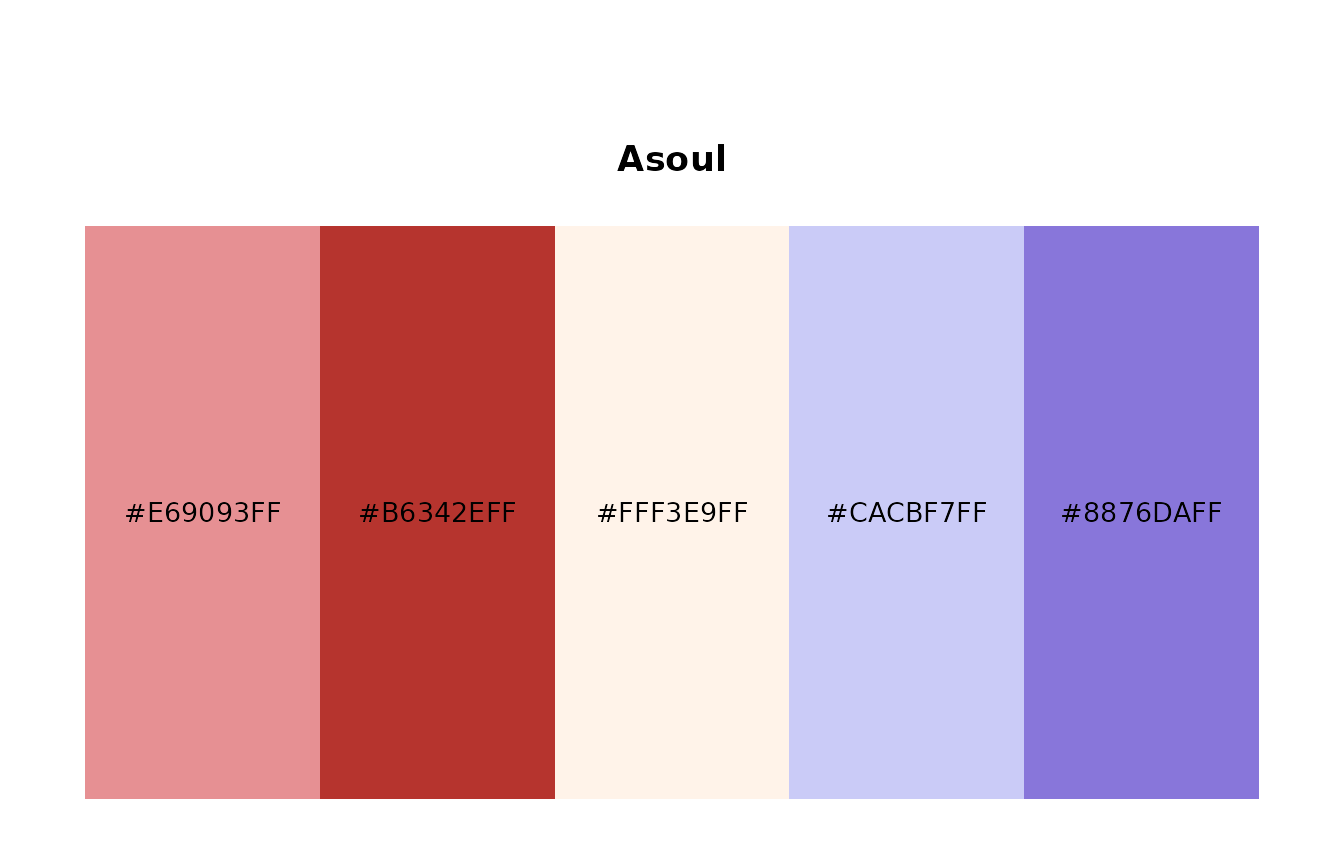
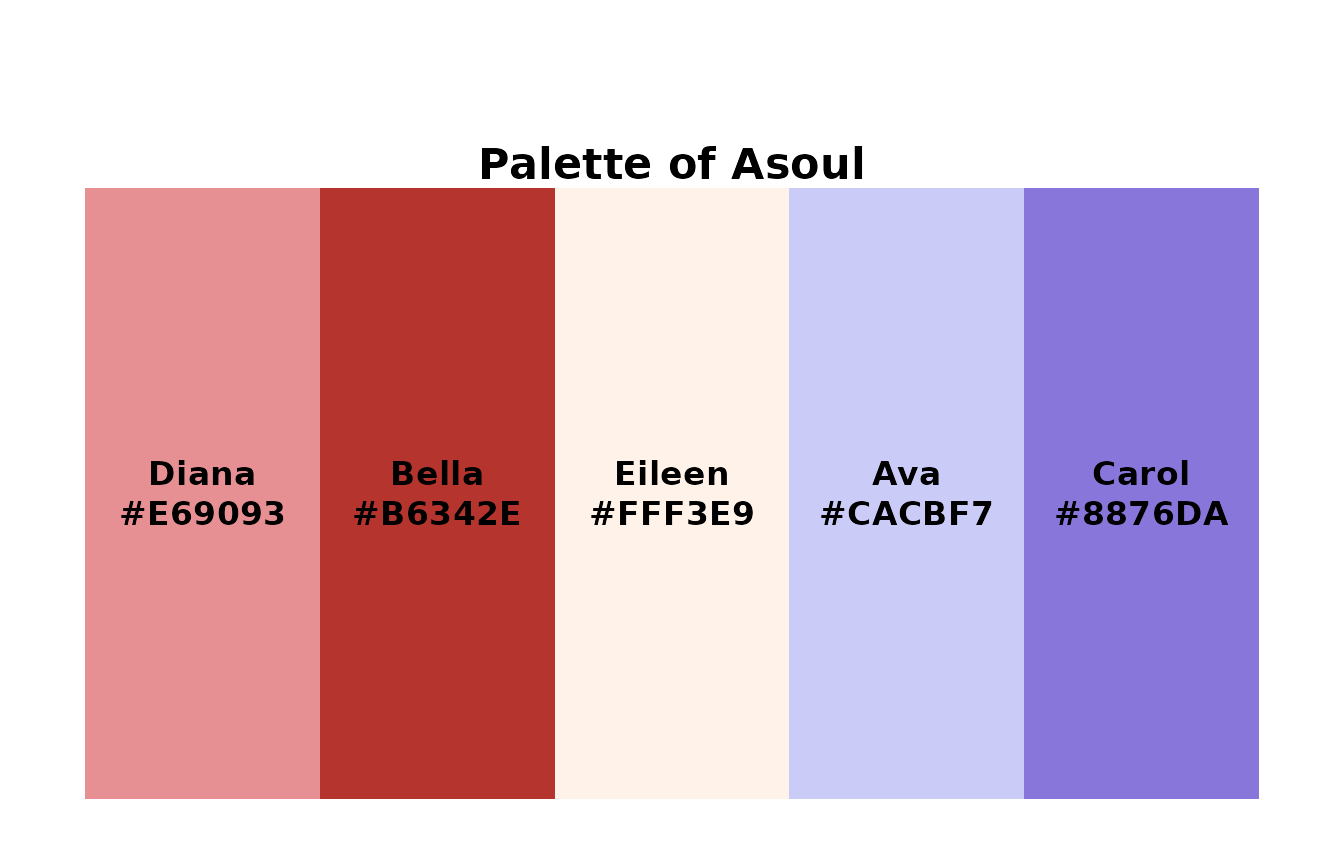
Deploying to gh-pages from @ lingxuko/gganime@6e8b9eb1c9e5f2e8f9f42b56d7fc97b8ae61d801 🚀

diff --git a/reference/show_anime.html b/reference/show_anime.html
@@ -1,5 +1,7 @@
 <!DOCTYPE html>
-<!-- Generated by pkgdown: do not edit by hand --><html lang="en"><head><meta http-equiv="Content-Type" content="text/html; charset=UTF-8"><meta charset="utf-8"><meta http-equiv="X-UA-Compatible" content="IE=edge"><meta name="viewport" content="width=device-width, initial-scale=1, shrink-to-fit=no"><title>Show a palette — show_anime • gganime</title><script src="../deps/jquery-3.6.0/jquery-3.6.0.min.js"></script><meta name="viewport" content="width=device-width, initial-scale=1, shrink-to-fit=no"><link href="../deps/bootstrap-5.3.1/bootstrap.min.css" rel="stylesheet"><script src="../deps/bootstrap-5.3.1/bootstrap.bundle.min.js"></script><link href="../deps/font-awesome-6.5.2/css/all.min.css" rel="stylesheet"><link href="../deps/font-awesome-6.5.2/css/v4-shims.min.css" rel="stylesheet"><script src="../deps/headroom-0.11.0/headroom.min.js"></script><script src="../deps/headroom-0.11.0/jQuery.headroom.min.js"></script><script src="../deps/bootstrap-toc-1.0.1/bootstrap-toc.min.js"></script><script src="../deps/clipboard.js-2.0.11/clipboard.min.js"></script><script src="../deps/search-1.0.0/autocomplete.jquery.min.js"></script><script src="../deps/search-1.0.0/fuse.min.js"></script><script src="../deps/search-1.0.0/mark.min.js"></script><!-- pkgdown --><script src="../pkgdown.js"></script><meta property="og:title" content="Show a palette — show_anime"><meta name="description" content="Show a palette"><meta property="og:description" content="Show a palette"><meta property="og:image" content="/logo.png"></head><body>
+<!-- Generated by pkgdown: do not edit by hand --><html lang="en"><head><meta http-equiv="Content-Type" content="text/html; charset=UTF-8"><meta charset="utf-8"><meta http-equiv="X-UA-Compatible" content="IE=edge"><meta name="viewport" content="width=device-width, initial-scale=1, shrink-to-fit=no"><title>Show a palette — show_anime • gganime</title><script src="../deps/jquery-3.6.0/jquery-3.6.0.min.js"></script><meta name="viewport" content="width=device-width, initial-scale=1, shrink-to-fit=no"><link href="../deps/bootstrap-5.3.1/bootstrap.min.css" rel="stylesheet"><script src="../deps/bootstrap-5.3.1/bootstrap.bundle.min.js"></script><link href="../deps/font-awesome-6.5.2/css/all.min.css" rel="stylesheet"><link href="../deps/font-awesome-6.5.2/css/v4-shims.min.css" rel="stylesheet"><script src="../deps/headroom-0.11.0/headroom.min.js"></script><script src="../deps/headroom-0.11.0/jQuery.headroom.min.js"></script><script src="../deps/bootstrap-toc-1.0.1/bootstrap-toc.min.js"></script><script src="../deps/clipboard.js-2.0.11/clipboard.min.js"></script><script src="../deps/search-1.0.0/autocomplete.jquery.min.js"></script><script src="../deps/search-1.0.0/fuse.min.js"></script><script src="../deps/search-1.0.0/mark.min.js"></script><!-- pkgdown --><script src="../pkgdown.js"></script><meta property="og:title" content="Show a palette — show_anime"><meta name="description" content='Title: "Palette of "
+Each color block shows: "#RRGGBB" centered in the block'><meta property="og:description" content='Title: "Palette of "
+Each color block shows: "#RRGGBB" centered in the block'><meta property="og:image" content="/logo.png"></head><body>
     <a href="#main" class="visually-hidden-focusable">Skip to contents</a>
 
 
@@ -34,12 +36,13 @@
     </div>
 
     <div class="ref-description section level2">
-    <p>Show a palette</p>
+    <p>Title: "Palette of <palette>"
+Each color block shows: "<label>#RRGGBB" centered in the block</label></palette></p>
     </div>
 
     <div class="section level2">
     <h2 id="ref-usage">Usage<a class="anchor" aria-label="anchor" href="#ref-usage"></a></h2>
-    <div class="sourceCode"><pre class="sourceCode r"><code><span><span class="fu">show_anime</span><span class="op">(</span>palette <span class="op">=</span> <span class="st">"Asoul"</span>, n <span class="op">=</span> <span class="cn">NULL</span><span class="op">)</span></span></code></pre></div>
+    <div class="sourceCode"><pre class="sourceCode r"><code><span><span class="fu">show_anime</span><span class="op">(</span>palette <span class="op">=</span> <span class="st">"Asoul"</span>, n <span class="op">=</span> <span class="cn">NULL</span>, reverse <span class="op">=</span> <span class="cn">FALSE</span>, alpha <span class="op">=</span> <span class="fl">1</span><span class="op">)</span></span></code></pre></div>
     </div>
 
     <div class="section level2">
@@ -52,6 +55,14 @@
 
 <dt id="arg-n">n<a class="anchor" aria-label="anchor" href="#arg-n"></a></dt>
 <dd><p>Number of colors to show. Defaults to the palette max.</p></dd>
+
+
+<dt id="arg-reverse">reverse<a class="anchor" aria-label="anchor" href="#arg-reverse"></a></dt>
+<dd><p>Reverse palette order.</p></dd>
+
+
+<dt id="arg-alpha">alpha<a class="anchor" aria-label="anchor" href="#arg-alpha"></a></dt>
+<dd><p>Alpha transparency</p></dd>
 
 </dl></div>
 

diff --git a/reference/dot-gganime_labels.html b/reference/dot-gganime_labels.html
@@ -1,0 +1,69 @@
+<!DOCTYPE html>
+<!-- Generated by pkgdown: do not edit by hand --><html lang="en"><head><meta http-equiv="Content-Type" content="text/html; charset=UTF-8"><meta charset="utf-8"><meta http-equiv="X-UA-Compatible" content="IE=edge"><meta name="viewport" content="width=device-width, initial-scale=1, shrink-to-fit=no"><title>Internal labels for palettes — .gganime_labels • gganime</title><script src="../deps/jquery-3.6.0/jquery-3.6.0.min.js"></script><meta name="viewport" content="width=device-width, initial-scale=1, shrink-to-fit=no"><link href="../deps/bootstrap-5.3.1/bootstrap.min.css" rel="stylesheet"><script src="../deps/bootstrap-5.3.1/bootstrap.bundle.min.js"></script><link href="../deps/font-awesome-6.5.2/css/all.min.css" rel="stylesheet"><link href="../deps/font-awesome-6.5.2/css/v4-shims.min.css" rel="stylesheet"><script src="../deps/headroom-0.11.0/headroom.min.js"></script><script src="../deps/headroom-0.11.0/jQuery.headroom.min.js"></script><script src="../deps/bootstrap-toc-1.0.1/bootstrap-toc.min.js"></script><script src="../deps/clipboard.js-2.0.11/clipboard.min.js"></script><script src="../deps/search-1.0.0/autocomplete.jquery.min.js"></script><script src="../deps/search-1.0.0/fuse.min.js"></script><script src="../deps/search-1.0.0/mark.min.js"></script><!-- pkgdown --><script src="../pkgdown.js"></script><meta property="og:title" content="Internal labels for palettes — .gganime_labels"><meta name="description" content="Internal labels for palettes"><meta property="og:description" content="Internal labels for palettes"><meta property="og:image" content="/logo.png"></head><body>
+    <a href="#main" class="visually-hidden-focusable">Skip to contents</a>
+
+
+    <nav class="navbar navbar-expand-lg fixed-top bg-light" data-bs-theme="light" aria-label="Site navigation"><div class="container">
+
+    <a class="navbar-brand me-2" href="../index.html">gganime</a>
+
+    <small class="nav-text text-muted me-auto" data-bs-toggle="tooltip" data-bs-placement="bottom" title="">0.0.0.9000</small>
+
+
+    <button class="navbar-toggler" type="button" data-bs-toggle="collapse" data-bs-target="#navbar" aria-controls="navbar" aria-expanded="false" aria-label="Toggle navigation">
+      <span class="navbar-toggler-icon"></span>
+    </button>
+
+    <div id="navbar" class="collapse navbar-collapse ms-3">
+      <ul class="navbar-nav me-auto"><li class="nav-item"><a class="nav-link" href="../articles/gganime.html">Get started</a></li>
+<li class="active nav-item"><a class="nav-link" href="../reference/index.html">Reference</a></li>
+<li class="nav-item"><a class="nav-link" href="../news/index.html">Changelog</a></li>
+      </ul><ul class="navbar-nav"><li class="nav-item"><form class="form-inline" role="search">
+ <input class="form-control" type="search" name="search-input" id="search-input" autocomplete="off" aria-label="Search site" placeholder="Search for" data-search-index="../search.json"></form></li>
+<li class="nav-item"><a class="external-link nav-link" href="https://github.com/lingxuko/gganime/" aria-label="GitHub"><span class="fa fab fa-github fa-lg"></span></a></li>
+      </ul></div>
+
+
+  </div>
+</nav><div class="container template-reference-topic">
+<div class="row">
+  <main id="main" class="col-md-9"><div class="page-header">
+      <img src="../logo.png" class="logo" alt=""><h1>Internal labels for palettes</h1>
+      <small class="dont-index">Source: <a href="https://github.com/lingxuko/gganime/blob/main/R/show.r" class="external-link"><code>R/show.r</code></a></small>
+      <div class="d-none name"><code>dot-gganime_labels.Rd</code></div>
+    </div>
+
+    <div class="ref-description section level2">
+    <p>Internal labels for palettes</p>
+    </div>
+
+    <div class="section level2">
+    <h2 id="ref-usage">Usage<a class="anchor" aria-label="anchor" href="#ref-usage"></a></h2>
+    <div class="sourceCode"><pre class="sourceCode r"><code><span><span class="va">.gganime_labels</span></span></code></pre></div>
+    </div>
+
+    <div class="section level2">
+    <h2 id="format">Format<a class="anchor" aria-label="anchor" href="#format"></a></h2>
+    <p>An object of class <code>list</code> of length 2.</p>
+    </div>
+
+  </main><aside class="col-md-3"><nav id="toc" aria-label="Table of contents"><h2>On this page</h2>
+    </nav></aside></div>
+
+
+    <footer><div class="pkgdown-footer-left">
+  <p>Developed by First Last.</p>
+</div>
+
+<div class="pkgdown-footer-right">
+  <p>Site built with <a href="https://pkgdown.r-lib.org/" class="external-link">pkgdown</a> 2.2.0.</p>
+</div>
+
+    </footer></div>
+
+
+
+
+
+  </body></html>
+

diff --git a/index.html b/index.html
@@ -87,7 +87,7 @@
 <code class="sourceCode R"><span><span class="co"># install.packages("remotes")</span></span>
 <span><span class="fu">remotes</span><span class="fu">::</span><span class="fu">install_github</span><span class="op">(</span><span class="st">"lingxuko/gganime"</span><span class="op">)</span></span>
 <span><span class="co">#&gt; Using GitHub PAT from the git credential store.</span></span>
-<span><span class="co">#&gt; Skipping install of 'gganime' from a github remote, the SHA1 (b00919e8) has not changed since last install.</span></span>
+<span><span class="co">#&gt; Skipping install of 'gganime' from a github remote, the SHA1 (58260ecf) has not changed since last install.</span></span>
 <span><span class="co">#&gt;   Use `force = TRUE` to force installation</span></span></code></pre></div>
 </div>
 <div class="section level2">

diff --git a/reference/show_anime.md b/reference/show_anime.md
@@ -1,11 +1,12 @@
 # Show a palette
 
-Show a palette
+Title: "Palette of " Each color block shows: "#RRGGBB" centered in the
+block
 
 ## Usage
 
 ``` r
-show_anime(palette = "Asoul", n = NULL)
+show_anime(palette = "Asoul", n = NULL, reverse = FALSE, alpha = 1)
 ```
 
 ## Arguments
@@ -17,3 +18,11 @@ show_anime(palette = "Asoul", n = NULL)
 - n:
 
   Number of colors to show. Defaults to the palette max.
+
+- reverse:
+
+  Reverse palette order.
+
+- alpha:
+
+  Alpha transparency

diff --git a/index.md b/index.md
@@ -30,7 +30,7 @@ Install the development version from GitHub:
 # install.packages("remotes")
 remotes::install_github("lingxuko/gganime")
 #> Using GitHub PAT from the git credential store.
-#> Skipping install of 'gganime' from a github remote, the SHA1 (b00919e8) has not changed since last install.
+#> Skipping install of 'gganime' from a github remote, the SHA1 (58260ecf) has not changed since last install.
 #>   Use `force = TRUE` to force installation
 ```
 

diff --git a/reference/dot-gganime_labels.md b/reference/dot-gganime_labels.md
@@ -1,0 +1,13 @@
+# Internal labels for palettes
+
+Internal labels for palettes
+
+## Usage
+
+``` r
+.gganime_labels
+```
+
+## Format
+
+An object of class `list` of length 2.
